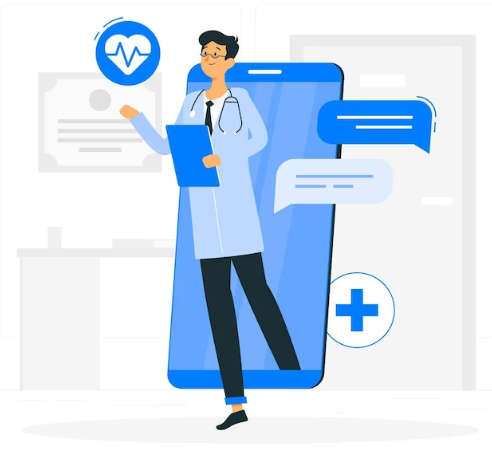
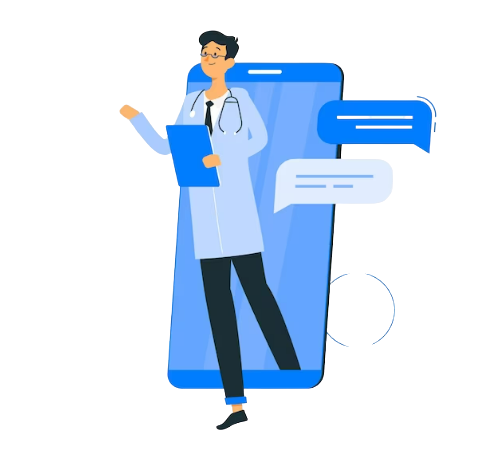
Add Styles for Splash screen

diff --git a/app/screens/SplashScreen.js b/app/screens/SplashScreen.js
@@ -1,22 +1,17 @@
 /* eslint-disable prettier/prettier */
 import React, { Component } from 'react';
-import { View, Image, StyleSheet} from 'react-native';
+import { View, Image, StyleSheet, Text} from 'react-native';
 import OnboardingScreen from '../screens/OnboardingScreen';
 
 export default class App extends Component {
   constructor(props) {
     super(props);
     this.state = {
-      isLoaded: false, // Flag to determine if the necessary tasks are completed
+      isLoaded: false,
     };
   }
 
   componentDidMount() {
-    // Perform any necessary tasks while the splash screen is displayed, such as data loading or app initialization.
-    // You can use the `componentDidMount` lifecycle method to define the necessary logic.
-    // Once you're done, update the state to indicate that the tasks are completed.
-
-    // Simulating a delay of 3 seconds for demonstration purposes
     setTimeout(() => {
       this.setState({ isLoaded: true });
     }, 2500);
@@ -28,7 +23,9 @@ export default class App extends Component {
     if (!isLoaded) {
       return (
         <View style={styles.splashContainer}>
-          <Image source={require('../assets/Doc.png')} style={styles.splashImage} />
+          <Text style={styles.splash_heading}> ID-Doctor </Text>
+          <Image source={require('../assets/Doctor.png')} style={styles.splashImage} />
+          <Text style={styles.splashText}> - Prediction Infectious Disease - </Text>
         </View>
       );
     }
@@ -48,12 +45,23 @@ const styles = StyleSheet.create({
     flex: 1,
     justifyContent: 'center',
     alignItems: 'center',
-    backgroundColor: 'white',
+    backgroundColor: 'rgba(50, 125, 255, 0.2)',
+  },
+  splash_heading: {
+    fontSize: 50,
+    bottom: 10,
+    color: '#1E90FF',
+    fontWeight: 'bold',
   },
   splashImage: {
-    width: 200,
-    height: 200,
+    width: 420,
+    height: 420,
     resizeMode: 'contain',
+  },
+  splashText: {
+    fontSize: 20,
+    fontStyle: 'italic',
+    color: 'black',
   },
   container: {
     flex: 1,
